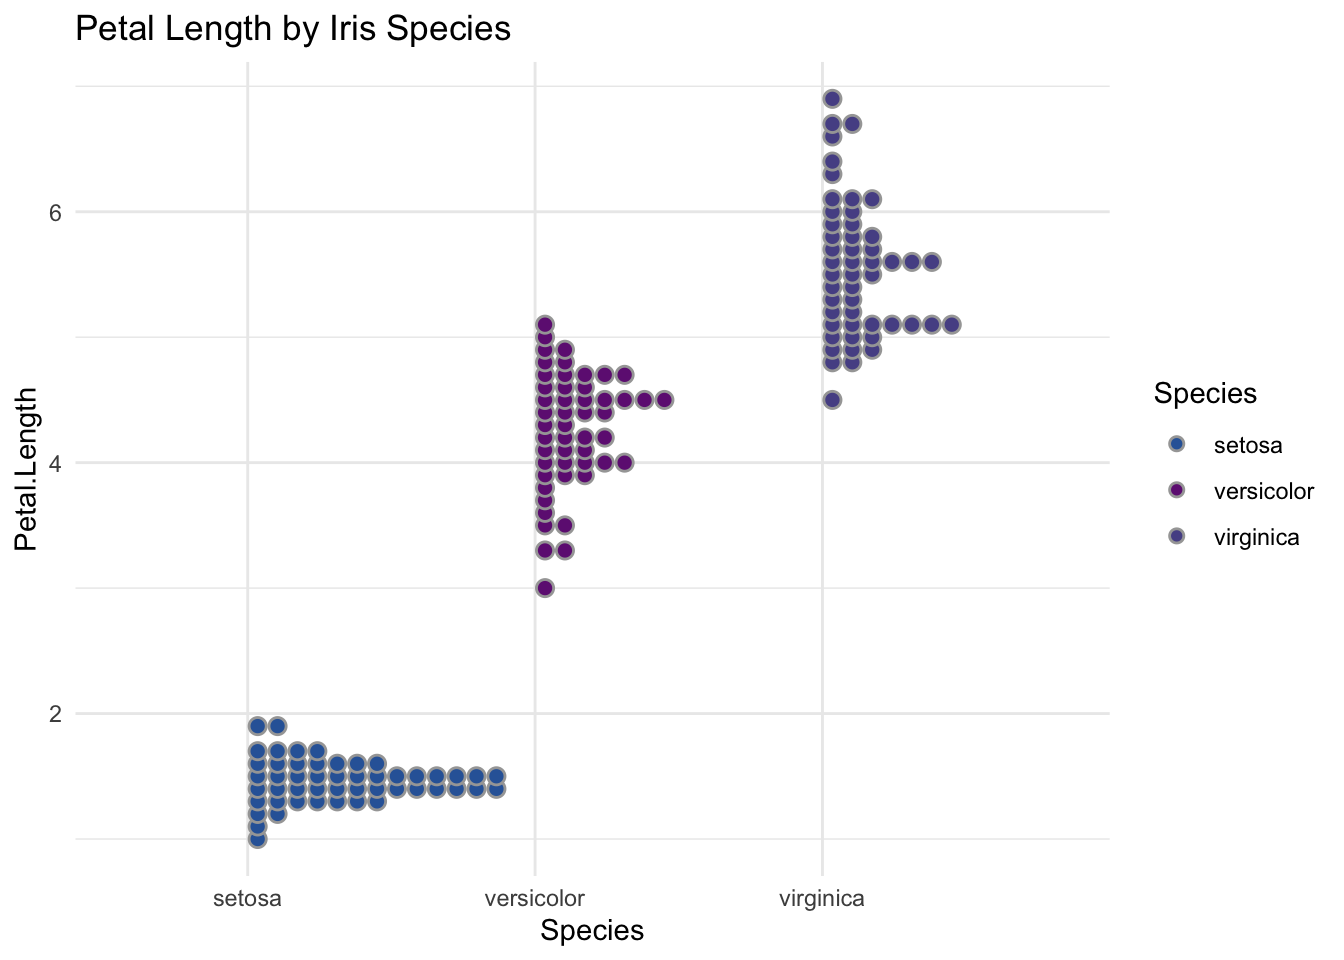
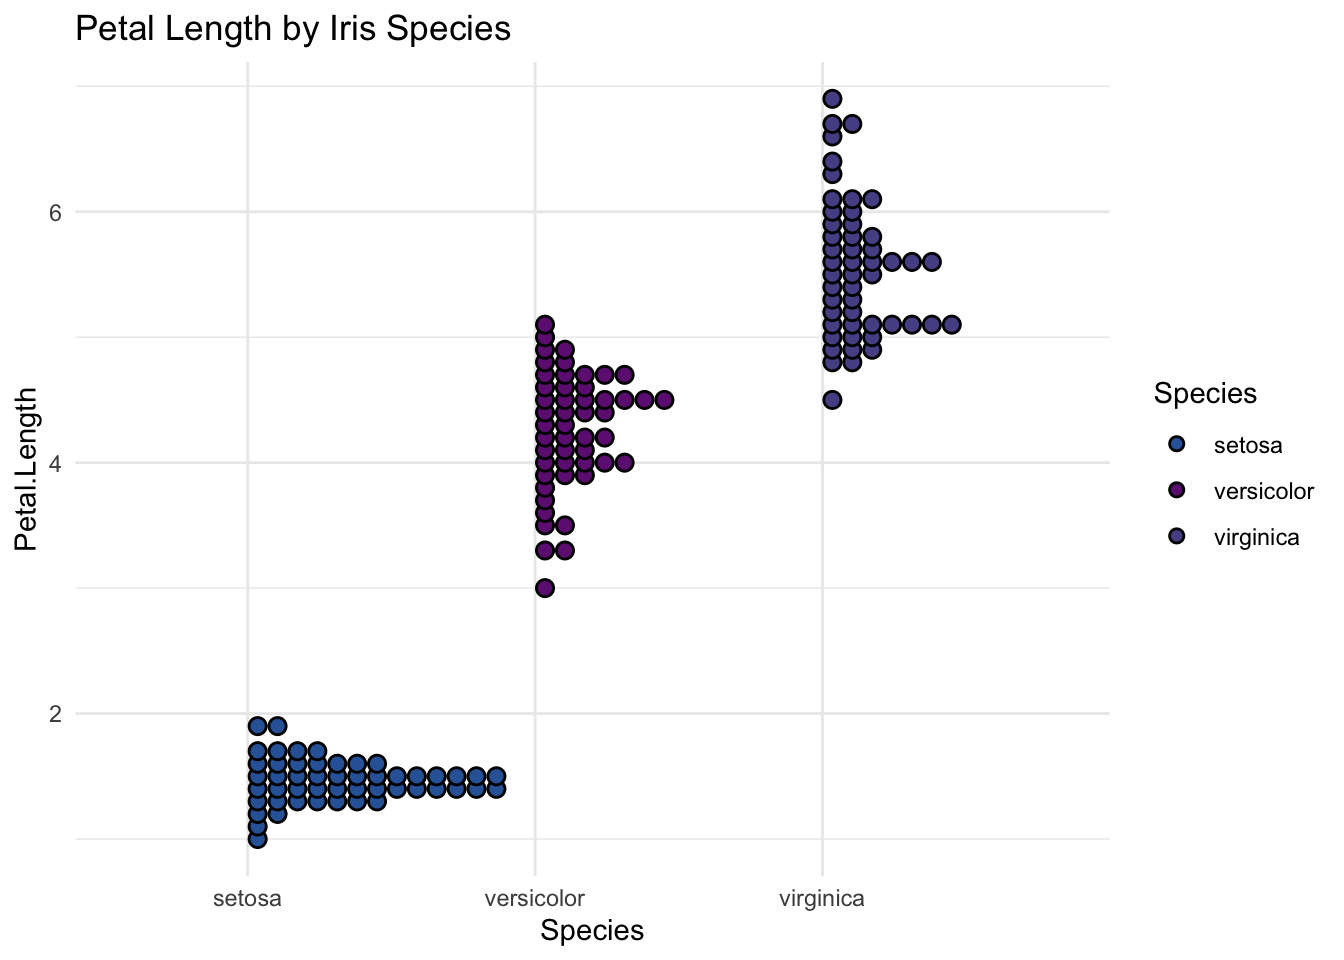
better color options

diff --git a/michigancolors-demo/michigancolors-demo.html b/michigancolors-demo/michigancolors-demo.html
@@ -280,12 +280,13 @@ code span.wa { color: #60a0b0; font-weight: bold; font-style: italic; } /* Warni
 <span id="cb12-4"><a href="#cb12-4" aria-hidden="true" tabindex="-1"></a>       <span class="fu">aes</span>(<span class="at">x =</span> Species,</span>
 <span id="cb12-5"><a href="#cb12-5" aria-hidden="true" tabindex="-1"></a>           <span class="at">y =</span> Petal.Length,</span>
 <span id="cb12-6"><a href="#cb12-6" aria-hidden="true" tabindex="-1"></a>           <span class="at">fill =</span> Species)) <span class="sc">+</span></span>
-<span id="cb12-7"><a href="#cb12-7" aria-hidden="true" tabindex="-1"></a>  <span class="fu">geom_dots</span>(<span class="at">dotsize =</span> <span class="dv">3</span>) <span class="sc">+</span></span>
-<span id="cb12-8"><a href="#cb12-8" aria-hidden="true" tabindex="-1"></a>  <span class="fu">labs</span>(<span class="at">title =</span> <span class="st">"Petal Length by Iris Species"</span>) <span class="sc">+</span> </span>
-<span id="cb12-9"><a href="#cb12-9" aria-hidden="true" tabindex="-1"></a>  <span class="fu">theme_minimal</span>() <span class="sc">+</span> </span>
-<span id="cb12-10"><a href="#cb12-10" aria-hidden="true" tabindex="-1"></a>  <span class="fu">scale_fill_manual</span>(<span class="at">values =</span> <span class="fu">c</span>(<span class="fu">michigancolors</span>(<span class="st">"arboretum blue"</span>),</span>
-<span id="cb12-11"><a href="#cb12-11" aria-hidden="true" tabindex="-1"></a>                               <span class="fu">michigancolors</span>(<span class="st">"ann arbor amethyst"</span>),</span>
-<span id="cb12-12"><a href="#cb12-12" aria-hidden="true" tabindex="-1"></a>                               <span class="fu">michigancolors</span>(<span class="st">"matthaei violet"</span>)))</span></code><button title="Copy to Clipboard" class="code-copy-button"><i class="bi"></i></button></pre></div>
+<span id="cb12-7"><a href="#cb12-7" aria-hidden="true" tabindex="-1"></a>  <span class="fu">geom_dots</span>(<span class="at">dotsize =</span> <span class="dv">3</span>, <span class="co"># dot size</span></span>
+<span id="cb12-8"><a href="#cb12-8" aria-hidden="true" tabindex="-1"></a>            <span class="at">color =</span> <span class="st">"black"</span>) <span class="sc">+</span> <span class="co"># outline color</span></span>
+<span id="cb12-9"><a href="#cb12-9" aria-hidden="true" tabindex="-1"></a>  <span class="fu">labs</span>(<span class="at">title =</span> <span class="st">"Petal Length by Iris Species"</span>) <span class="sc">+</span> </span>
+<span id="cb12-10"><a href="#cb12-10" aria-hidden="true" tabindex="-1"></a>  <span class="fu">theme_minimal</span>() <span class="sc">+</span> </span>
+<span id="cb12-11"><a href="#cb12-11" aria-hidden="true" tabindex="-1"></a>  <span class="fu">scale_fill_manual</span>(<span class="at">values =</span> <span class="fu">c</span>(<span class="fu">michigancolors</span>(<span class="st">"arboretum blue"</span>),</span>
+<span id="cb12-12"><a href="#cb12-12" aria-hidden="true" tabindex="-1"></a>                               <span class="fu">michigancolors</span>(<span class="st">"ann arbor amethyst"</span>),</span>
+<span id="cb12-13"><a href="#cb12-13" aria-hidden="true" tabindex="-1"></a>                               <span class="fu">michigancolors</span>(<span class="st">"matthaei violet"</span>)))</span></code><button title="Copy to Clipboard" class="code-copy-button"><i class="bi"></i></button></pre></div>
 <div class="cell-output-display">
 <p><img src="michigancolors-demo_files/figure-html/unnamed-chunk-13-1.png" class="img-fluid" width="672"></p>
 </div>
